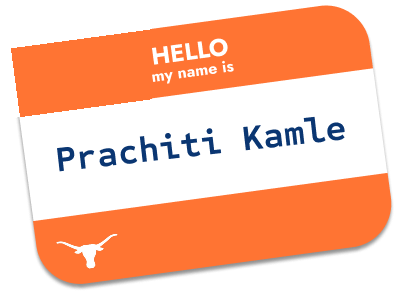
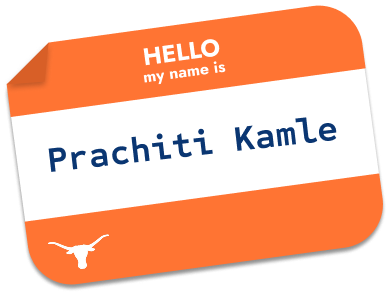
Fix coffee stain size and swap in properly-designed nametag art
Use the user-provided nametag PNG with a clean baked-in peeling corner,
replacing the previous CSS washi-tape overlay hack. Remeasure the coffee
stain, nametag, and note sizing/placement against the user's reference
composite (pixel bounding boxes for each of the 4 hero components,
scaled to our board width) — the stain was rendering at roughly 40% of
its intended size and offset from its target position; it's now sized
and placed to match the reference, on both desktop and mobile, and on
the About page's has-photo variant.

Claude-Session: https://claude.ai/code/session_01D4o96uNGs7dCMvmZ2JcMqV

diff --git a/css/style.css b/css/style.css
@@ -220,36 +220,9 @@ p { margin: 0 0 1em; color: var(--gray-text); }
 .note-name {
   left: 0;
   top: 0;
-  width: 336px;
+  width: 340px;
   transform: rotate(-6deg);
   z-index: 1;
-}
-
-/* Washi tape holding the nametag to the board, with a peeled-up corner */
-.note-name::before {
-  content: '';
-  position: absolute;
-  top: -14px;
-  left: 22px;
-  width: 78px;
-  height: 30px;
-  background: rgba(255, 253, 246, 0.7);
-  box-shadow: 0 3px 7px rgba(24, 36, 73, 0.2);
-  transform: rotate(-42deg);
-  z-index: 2;
-}
-.note-name::after {
-  content: '';
-  position: absolute;
-  top: -14px;
-  left: 22px;
-  width: 78px;
-  height: 30px;
-  background: linear-gradient(100deg, transparent 0 66%, rgba(214, 208, 190, 0.55) 67% 78%, rgba(214, 208, 190, 0.85) 79%);
-  clip-path: polygon(66% 0, 100% 0, 100% 100%, 66% 100%);
-  transform: rotate(-42deg) translateX(1px);
-  z-index: 3;
-  box-shadow: -2px 2px 4px rgba(24, 36, 73, 0.15);
 }
 
 .note-empathy {
@@ -275,20 +248,20 @@ p { margin: 0 0 1em; color: var(--gray-text); }
 
 .note-shadow-stain {
   position: absolute;
-  left: 345px;
-  top: 285px;
-  width: 125px;
-  height: 125px;
+  left: 220px;
+  top: 218px;
+  width: 308px;
+  height: 308px;
   z-index: 0;
   mix-blend-mode: multiply;
   opacity: 0.85;
   pointer-events: none;
 }
 .has-photo .note-shadow-stain {
-  left: 310px;
-  top: 320px;
-  width: 115px;
-  height: 115px;
+  left: 40px;
+  top: 346px;
+  width: 308px;
+  height: 308px;
 }
 
 .note-photo {
@@ -308,13 +281,12 @@ p { margin: 0 0 1em; color: var(--gray-text); }
   .sticky-board { max-width: 300px; height: 340px; }
   .sticky-board.has-photo { height: 560px; }
   .note-name { width: 230px; left: 0; top: 0; }
-  .note-name::before, .note-name::after { top: -10px; left: 14px; width: 54px; height: 20px; }
   .note-photo { left: 40px; top: 140px; width: 170px; height: 185px; }
   .note-empathy { width: 130px; right: 0; top: 100px; }
   .note-blurb { left: 100px; top: 165px; width: 165px; }
   .has-photo .note-blurb { left: 10px; top: 400px; width: 190px; }
-  .note-shadow-stain { left: 215px; top: 210px; width: 90px; height: 90px; }
-  .has-photo .note-shadow-stain { left: 130px; top: 370px; }
+  .note-shadow-stain { left: 100px; top: 161px; width: 158px; height: 158px; }
+  .has-photo .note-shadow-stain { left: 10px; top: 396px; width: 158px; height: 158px; }
 }
 
 /* Duct-tape label: matte yellow strip with a torn/frayed edge on each end */
